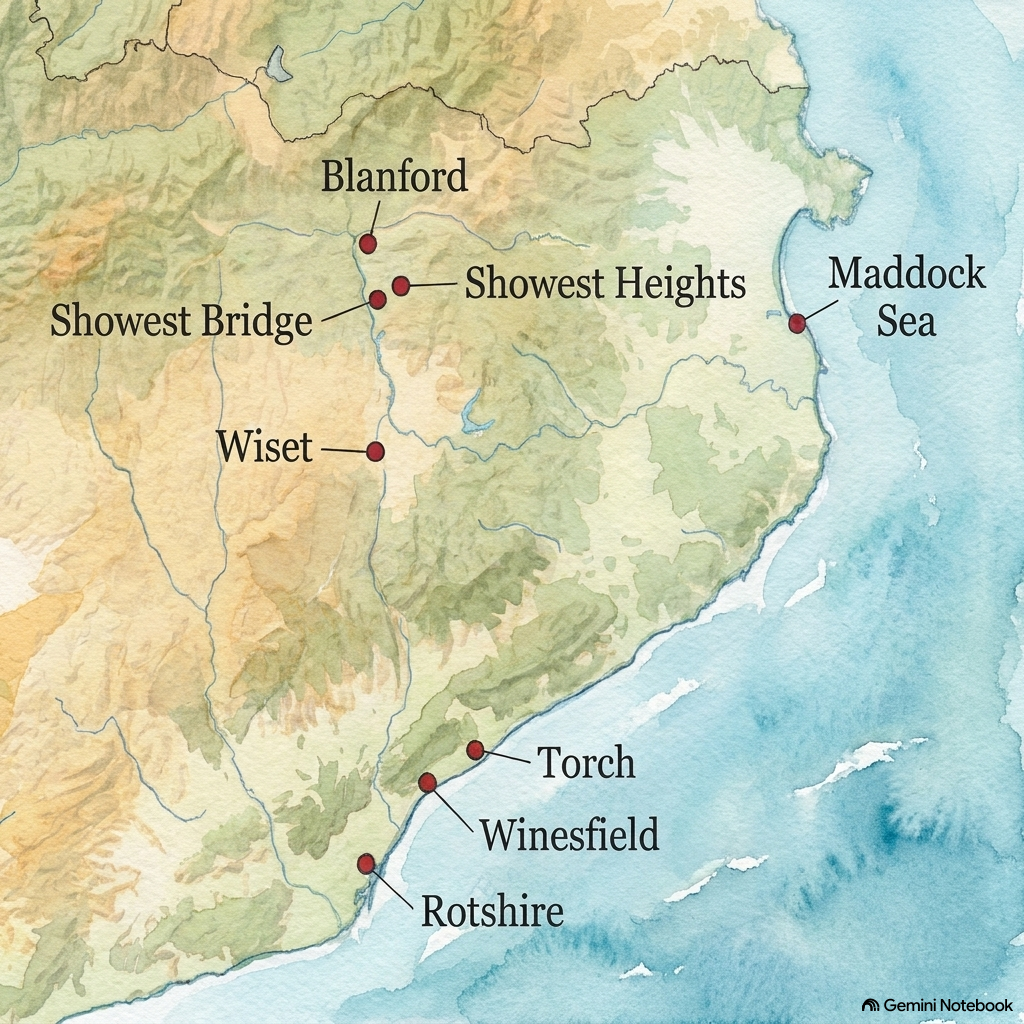
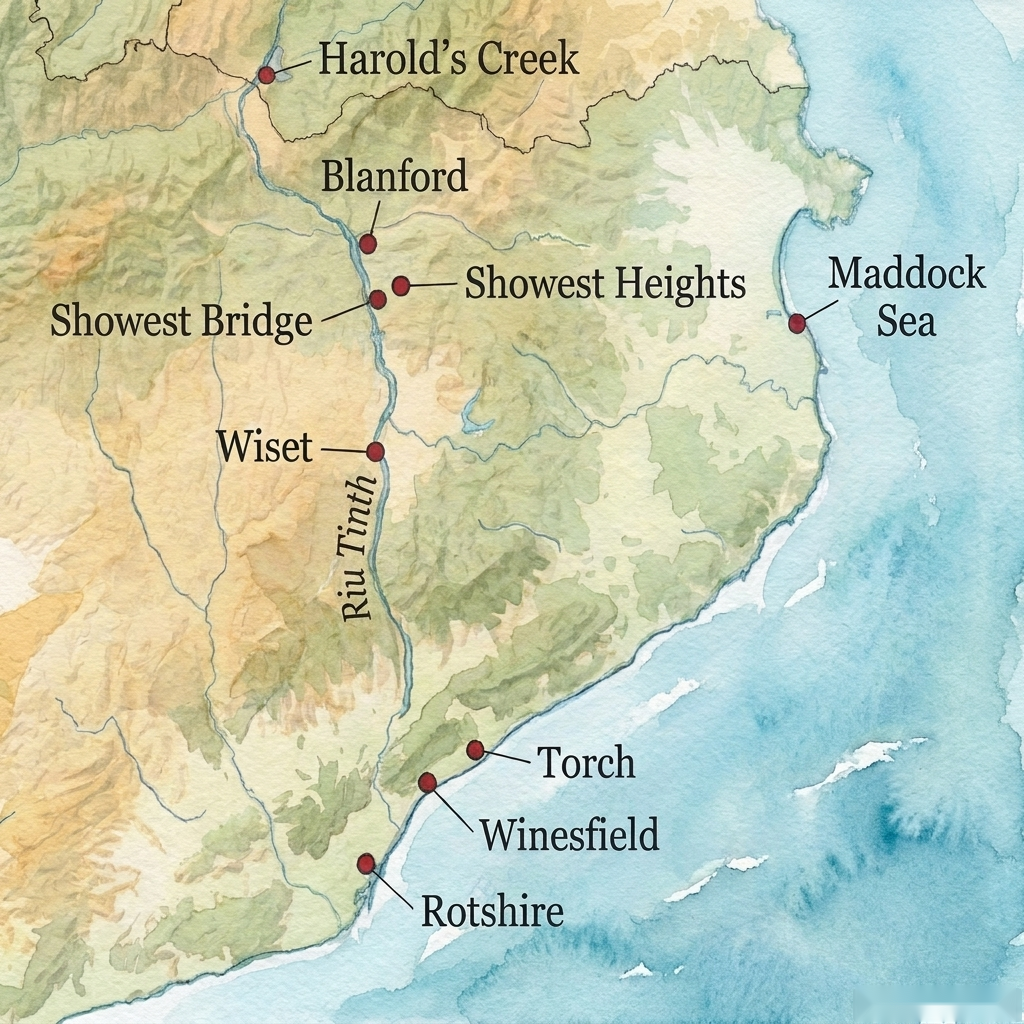
aixomai

diff --git a/src/content/relats/aixo_mai/capitol-1-episodi-4.md b/src/content/relats/aixo_mai/capitol-1-episodi-4.md
@@ -1,0 +1,23 @@
+---
+title: "La llegenda de la forastera"
+llibre: "Això no m'havia passat mai"
+llibreId: "Aixo-mai"
+seccio: "Capítol passat" 
+etiqueta: "Episodi 4"
+ordre: 5
+data: 2016-08-01
+sinopsi: "" 
+---
+<img src="/imatges/aixo_mai_capitol_01_episodi_04.png" alt="La forastera" style="width: 100%;" />
+
+Tot era a punt per marxar. Petons de comiat i una mirada de complicitat que filles i mare van creuar abans que tots dos deixessin la casa per anar a sopar.
+
+Darlene era una dona a la qual la vida no li havia somrigut tant com s’ho hauria merescut. El seu tresor més preuat era la seva família i, per damunt de tot, les seves filles, per les que donaria la seva vida sense dubtar un instant. El seu caràcter podia presentar tota mena de matisos segons cada situació i oscil·lava des de la més tendra afectivitat fins a la ferocitat si allò pel que s’havia de discutir bé s’ho mereixia. En qualsevol dels casos, però, sempre posava pel davant l’honestedat i la veritat, els pilars en els que fonamentava la seva vida i que havia inculcat a les seves filles amb la seva inesgotable tossuderia. Treballadora des de ben jove, no havia deixat mai d’aportar el seu esforç allà on s’hi trobés, a casa dels pares primer, a la feina més tard i al seu matrimoni mentre va durar. Ningú li havia regalat res i, si ho havia fet, ella ho agrairia sempre.
+
+Baixava els graons de la finca procurant no repicar els talons i no alertar els veïns, pendents a tota hora dels moviments no només d’ella sinó de qualsevol altre que passés per l’escala, pel carrer, caminant o en cotxe, xerrant o en silenci. Era tan arrelat aquest costum en els habitants de Showest Bridge que els hi semblava ben normal guaitar per la finestra o escoltar darrera les portes sense cap mena de pudor ni de vergonya. A les botigues, al dia següent, les versions d’un mateix fet es posaven en comú i s’explicaven amb tota mena de detalls als qui no en van poder gaudir en directe. Els temes més sucosos podien durar dies o mesos per anar perfilant una història què, a la fi, res tenia a veure amb el seu origen però que la creativitat desmesurada, la malícia i la poca feina dels seus narradors convertien en un fet insòlit i inversemblant. Es podria pensar que aquesta era una pràctica habitual de les dones, a sovint relacionades amb exclusiva amb aquests afers. A Showest Bridge i a altres pobles dels voltants eren els homes els qui en feien ús i que els discutien als pocs bars a on s’ajuntaven després de la feina i dissabtes i diumenges. Hi havia tanta passió per la xafarderia que més d’una vegada s’havia apagat el televisor i deixat de veure el partit de futbol perquè l’interès en un assumpte del que ningú n’era partícip els sobrepassava i s’encenien discussions tan acalorades que podien arribar a les mans per menys de res. Una de les històries que durant més temps va tenir entretinguda a la major part de la població, a la vora de tres anys i que els pares encara avui expliquen als seus fills, va ser la d’una noia vinguda d’un país de l’est d’Europa a la que se li atribuïen tota mena d’abusos sexuals a homes, dones i fins i tot a animals. Venia a ser una mena de monstre nocturn, que actuava amb la fredor pròpia del país d’on provenia i del qual mai es va saber el nom amb certesa. Tampoc el nom de la dona es va arribar a saber mai, només l’anomenaven “la forastera”. Era d’una promiscuïtat tal que no deixava que ningú la seduís sinó que era ella la que ensarronava les seves víctimes amb tanta sapiència amorosa que res no podien fer per desfer-se’n i queien a les seves lascives urpes com xais desvalguts. Cap d’aquestes suposades víctimes havia pogut donar el seu testimoni als persistents creadors de tan tèrbola història perquè havien quedat sotmesos a un potent encanteri d’amor que els mantindria com ximplets fins a la fi dels seus dies. L’edat de la forastera oscil·lava entre els divuit i els vint-i-cinc, els seus cabells creixien i es tallaven al mateix temps que canviaven de color, i els seus pits i les seves natges havien arribat a tenir unes dimensions tan colossals que no existia  roba prou gran per entaforar-los. Alguns l’havien vist a la nit, de reüll per prevenir l’esguard de tan malèfic ésser, en algun racó fosc que els més previnguts evitaven a qualsevol preu també a la llum del dia.
+
+Aquella noia francesa de vint anys amb cos de dona de trenta, va baixar del tren a la raquítica estació de Showest Bridge forçada per una avaria en algun punt de la via. Era el migdia d’un mes de juliol en que les temperatures es van enfilar fins al llindar dels quaranta-cinc graus. Va entrar al bar a on es convertiria en llegenda i va menjar i beure atentament vigilada. Van trigar set dies en reparar l’avaria, canviant més de vuit-cents cargols defectuosos dels que subjecten les vies, fosos per la insuportable canícula, en els trams on el sol hi queia a plom durant quinze hores al dia. Les seves vacances i els seus diners van diluir-se sota aquell sol implacable passant les hores durant el dia a l’única habitació amb aire condicionat del únic hotel del poble, llegint llibres de literatura francesa. Ben entrada la nit, quan la calor havia deixat de ser sufocant, passejava pels quatre carrers solitaris de Showest Bridge, avorrida i farta d’haver anat a parar a aquell racó de món. La seva roba vaporosa i moderna, ben diferent de la que vestien allà, va desfermar la imaginació dels pocs que la van arribar a veure. Quan per fi va poder marxar, va tornar cap a casa i es va prometre a sí mateixa que no hi tornaria mai més ni hi aniria mai a cap destinació si el tren passava per Showest Bridge. Claire Damien viu ara a Wiset, encara està soltera als seus seixanta-dos anys i no ha tingut cap intenció de desplaçar-se els quinze escassos quilòmetres que la separen d’aquell malson de poble. Durant molts anys havia estat professora de francès en un institut, el mateix a on van aprendre la llengua de Voltaire els fills d’aquells que s’entestaren a convertir-la en el monstre que mai hagués cregut ser i que la consideraren sempre la professora ideal, la que xerrava amb els alumnes, la que feia divertida una assignatura que no els hi interessava gens. Era també la que va ensenyar els verbs a Darlene i amb la qual mantenien avui en dia una amistat tendre i ferma.
+
+Darlene havia nascut a Wiset i no coneixia Showest Bridge quan anava al institut, només d’anomenada. Quan va conèixer en Wallace Colbert, que era fill d’aquell poble de tarats, va començar en entendre l’obsessió de la professora per no apropar-s’hi i ho va sentir en carn pròpia poc temps després de que es casessin i anessin tots dos a viure en un petit apartament al bell mig del poble, centre neuràlgic del espionatge veïnal. La casualitat va voler que la casa a on Claire Damien es va instal·lar a Wiset estès a prop de la casa dels pares de Darlene. Així, pocs dies més tard que comencessin les classes, tres dies a la setmana feien juntes el camí de tornada des de l’institut, xerrant una mica de tot i creant sense voler un vincle que encara avui segueixen cuidant, basat amb el secrets d’adolescència de l’una i l’altre. Cap de les dos, però, havien arribat a sospitar mai la tenebrosa historia fundada en la que fóra forastera durant una setmana a Showest Bridge i de la que se’n haguessin rigut sense parar cada vegada que es trobaven.
+
+Gens interessada amb les xafarderies, Darlene no en feia cabal quan les escoltava, més preocupada per les seves filles, els seus gossos i les seves dificultats per tirar endavant la vida de tots plegats, però procurava mantenir la discreció necessària per no donar-ne peu. Ja en va tenir prou amb l’enrenou que va provocar la separació d’en Wallace què, com bon fill del poble, quedava a ulls de tothom al marge de qualsevol culpabilitat, soterrant les raons per les quals Darlene l’odiava tant i que mai va deixar entreveure a ningú, sabedora com era de que als seus veïns poc els hi importaven i que ja construirien d’altres raons deixant anar la seva ment pertorbada. Quan sortia al carrer solia dur ulleres de sol fosques, caminava de pressa allà on havia d’anar i prestava ben poca atenció als que passaven al seu voltant, tant que alguna bona amiga s’havia molestat perquè no la va contestar al saludar-la. Al contrari del que podia semblar, Darlene era ben estimada per molta de la gent de Showest Bridge.

diff --git a/src/content/relats/aixo_mai/capitol-1-episodi-1.md b/src/content/relats/aixo_mai/capitol-1-episodi-1.md
@@ -10,8 +10,10 @@ sinopsi: ""
 ---
 <img src="/imatges/aixo_mai_capitol_01_episodi_01.png" alt="Endinsats a la boira" style="width: 100%;" />
 
-Feia poc més de mitja hora que conduïa sense cap pressa, sabedor com era que no li calia córrer per arribar amb temps suficient, fins i tot potser massa d’hora. Va mirar de reüll els dígits ataronjats al centre mateix dels comandaments del vehicle que es distingien clarament entre la foscor de la nit. Com que el trànsit era escàs, en veure que encara no eren ni dos quarts de deu, va afluixar una mica la pressió sobre l’accelerador i decidir respectar els límits de velocitat; així arribaria sense gaire antelació i no s’hauria d’esperar pràcticament gens. També li serviria per imaginar què es trobaria, de què parlarien, què faria. Malgrat que Merrick Barnet era una persona ordenada a la qui li agradava tenir les coses preparades abans d’enfrontar-s’hi, segons les ocasions deixava espai a la improvisació per prendre decisions en l’últim moment, bé per l’agradable sensació d’una aventura desconeguda, bé per que els altres decidissin en lloc seu.
+Feia poc més de mitja hora que conduïa sense cap pressa, sabedor com era que no li calia córrer per arribar amb temps suficient, fins i tot potser massa d’hora. Va mirar de reüll els dígits ataronjats al centre mateix dels comandaments del vehicle que es distingien clarament entre la foscor de la nit. Com que el trànsit era escàs, en veure que encara no eren ni dos quarts de deu, va afluixar una mica la pressió sobre l’accelerador i decidir respectar els límits de velocitat; així arribaria sense gaire antelació i no s’hauria d’esperar pràcticament gens. També li serviria per imaginar què es trobaria, de què parlarien, què faria. Malgrat que Merrick Barnet era una persona ordenada a la qui li agradava tenir les coses preparades abans d’enfrontar-s’hi, segons zles ocasions deixava espai a la improvisació per prendre decisions en l’últim moment, bé per l’agradable sensació d’una aventura desconeguda, bé per que els altres decidissin en lloc seu.
+
 Tot i que no era massa presumit, aquell vespre s’hi havia esmerçat en estar polit i lleugerament perfumat. Com que no era amic de les colònies, en tenia prou amb la fresca olor del seu massatge per després d’afaitar, del que se’n va posar una dosi superior a l’habitual. Unit a la dutxa just abans de sortir i a la fragància de la roba neta, es sentia en perfectes condicions per a ser examinat de la manera que només les dones saben fer-ho. Era cap a finals de gener en un any que no es presentava especialment fred, però la contrada on s’hi dirigia mantenia durant bastants mesos a l’any unes temperatures més aviat baixes i gairebé durant quatre o cinc mesos eren estrictament gèlides. Showest Bridge quedava enclotat en una fonda depressió orogràfica travessada pel Tinth, un riu ara poc cabalós que en temps passats va donar feina i menjar a bona part de les terres per les que discorre. De fet, el Tinth feia moure les seves aigües des dels llunyans cims de Harold’s Creek fins a la seva desembocadura als fangars de Rotshire, en un curs d’uns dos-cents quilòmetres. Al seu pas per Showest Bridge, el Tinth era calmat i es recargolava de tal manera que semblava que havia esculpit el caràcter d’aquella gent, tranquils de mena i malpensats i desconfiats com n’hi ha poca. Merrick els coneixia prou bé. A tocar del riu, el fred s’escolava ràpidament dins el cos i aixecava una intensa boira que s’enfilava fins al cap de munt del campanar de l’església, cobrint les cases i la gent amb aquell gest tosc i sorrut que no els abandonava ni els pocs dies en que el sol escalfava fort al migdia.
+
 No havia triat lloc per anar a sopar però recordava que en un trencall de la carretera, a pocs quilòmetres de Showest Bridge, hi havia vist nombroses vegades el rètol d’un restaurant que, per estar on estava, devia ser un d’aquells llocs de pagès a on es podria menjar bé a un preu raonable. El desviament fins a Lou’s Corner anava perdent l’asfalt fins a convertir-se en un camí de terra humida i compacta, sense sots, tancat a banda i banda per una filera d’arbres vells i tupits malgrat l’hivern. Una vegada més es va preguntar quins arbres eren aquells sense esperar conèixer la resposta. Sempre li hauria agradat saber-ne més dels noms dels arbres però mai havia prestat el suficient interès; amb prou feines distingia les oliveres perquè n’havia plantat una de petita quatre o cinc anys enrere a la que l’hi havia vist créixer unes quantes fulles i l’hi agradava mirar-se-la quan es llevava al matí i esporgar-la quan algú amb dots de jardiner li recomanava que calia fer-ho. Va ser un regal inesperat del seu cunyat d’aleshores, en Wallace Peyton, quan va haver de fer canvis al seu jardí i l’olivera va perdre el seu lloc. La plantà per veure-la créixer alhora que ho feia l’Alain, el seu fill de tres anys. Durant els dos anys següents, l’olivera havia eixamplat les branques i l’Alain s’havia estirat fins a ser tan alt com ella. Feia més d’un any que no la veia i es preguntava qui dels dos hauria crescut més, si era que l’arbre encara es mantenia dempeus.
 
 L’espai per aparcar era tan ampli que va dubtar a on deixar el cotxe. Li solia passar als pàrquings amb moltes places lliures, no sabia quina triar. Finalment, el va aturar al costat d’una furgoneta atrotinada que de ben segur pertanyia a algú del restaurant. El gos que jeia a la porta de Lou’s Corner no es va molestar ni en aixecar el cap quan Merrick passava pel seu davant, tot just va dreçar les orelles sense desviar la mirada. La casa era antiga i de ben segur servia menjars des de feia una bona colla d’anys. Les sensacions que va tenir al entrar no l’animaven a seguir però com que tenia molts ulls fixant-se en ell, va avançar fins arribar al taulell: un nen petit que pintava gargots en un diari, una noia que se li asseia al costat, una senyora baixeta amb el davantal esquitxat de cuinar i un senyor gran, segurament l’amo del local, s’havien aturat en sec en veure’l entrar i el miraven tan bocabadats com ell ho feia. Per uns segons el temps va deixar de córrer i tanmateix semblava que no s’esperaven que ningú entrés per la porta aquella nit, sorpresos com estaven. El silenci d’aquells instants es barrejava amb la poca llum del local, la fusta fosca i rància de taules i porticons i amb l’inconfusible olor dels llocs a on es serveixen menjars i es fuma alhora, per molt que els ventilin. Tot i les ganes de marxar, la prudència natural d’en Merrick el va fer apropar-se fins l’amo i demanar-li si hi havia taules disponibles per sopar. Mentre ho deia, s’adonava de quan absurda era la pregunta, clar com era que aquella nit farien ben poc calaix, però va esperar la resposta com si res. L’home no va mirar cap llibre de reserves i sense gaire entusiasme li confirmar el que ja sabia.

diff --git a/src/content/relats/aixo_mai/capitol-1-episodi-3.md b/src/content/relats/aixo_mai/capitol-1-episodi-3.md
@@ -1,0 +1,21 @@
+---
+title: "Quatre gossos i un retrobament"
+llibre: "Això no m'havia passat mai"
+llibreId: "Aixo-mai"
+seccio: "Capítol passat" 
+etiqueta: "Episodi 3"
+ordre: 4
+data: 2016-08-01
+sinopsi: "" 
+---
+<img src="/imatges/aixo_mai_capitol_01_episodi_03.png" alt="Quatre gossos" style="width: 100%;" />
+
+Encara tenia el dit al timbre quan va sentir dins de la casa els lladrucs nerviosos d’un gos que amagaven corredisses i veus. Va ser un instant breu perquè de seguida es va obrir la porta mostrant l’esvelta figura de Darlene. El va fer entrar i es van fer dos petons mentre els lladrucs persistien, malgrat que no hi havia cap gos a la vista. Al menjador hi esperaven les seves filles, Alècia i Essie, dretes al costat d’una taula de centre i que van saludar en Merrick també amb dos petons cada una. Llavors va veure d’on venien els lladrucs: al darrera de la porta que duia al pati, un gos negre i pelut saltava xocant els dents contra el vidre i bordava agudament per molt que les tres dones intentessin fer-lo callar. També va entendre d’on venia aquella olor que va notar quan la porta es va obrir i la barreja de tabac, de gos i d’humitat es va escolar pel seu nas. No estava segur si hauria reconegut a les filles si se les hagués trobat pel carrer. Feia tres anys que no les veia i l’Essie en tenia deu a les hores, una nena. Alècia tenia quatre anys més que la seva germana i s’havia convertit en una adolescent prima i delicada, amb la seva roba cenyida, el maquillatge discret i un posat elegant.
+
+Darlene anava i venia esperitada passadís amunt i avall, entrava al bany i sortia al cap de pocs segons; hi tornava a entrar i sortia per demanar alguna cosa a alguna de les filles mentre intentava fer callar als gossos, que ho feien durant un breu  instant i seguien al cap de pocs segons amb la cridòria que provocava la presència d’un estrany a la casa. Va ser llavors, quan Darlene va anomenar els gossos pel seu nom, que Merrick s’adonà que no hi havia només un sinó que n’eren quatre els que s’amuntegaven darrera la porta de vidre. Per calmar-los, Alècia va decidir fer-los entrar després de demanar-li a Merrick si no l’importava. La manada va passar a l’interior de la casa amuntegant-se i trepitjant-se entre ells fins arribar a prop del foraster per ensumar-lo i reconèixer que no hi havia perill per a les mestresses. Eren tots de pèl llarg, de morro extremadament afilat, envoltaven en Merrick i fins i tot, un de més menut, li saltava a les cames buscant una carícia. Tot i no tenir por, la presència de quatre gossos l’imposava una mica i a les nenes els hi feia molta gràcia. L’Essie i l’Alècia els hi donaven ordres a les que els animals responien amb més o menys celeritat, atabalats com estaven per una situació que no es produïa en aquella casa des de feia molts dies.
+
+Acabat el seu periple de viatges pel passadís, finalment va aparèixer Darlene acalorada per les corredisses, la calefacció i els nervis que li provocava aquella mena de cita, una trobada entre dos antics coneguts que les casualitats havien portat a coincidir aquell vespre de gener. Com sempre havia estat i ho hauria de ser fins al darrer dia de la seva vida, estava perfectament maquillada, el cabell recollit amb una pinça, calçada amb uns talons de no gaire alçada i lluint el seu cos prim dins d’un vestit llarg i cenyit que descrivia amb escreix l’anatomia que hauria de tenir embadalit en Merrick durant tants anys com va viure. La poca estatura la compensava simplement amb la seva presència, amb el saber estar com calia a cada lloc, i eren pocs els que s’adonaven d’aquest fet fins que la veien descalça, cosa la qual era pràcticament impensable per a Darlene.
+
+Ell recordava aquest cos. Tres o quatre anys enrere, quan Darlene i el seu cunyat Wallace Peyton mantenien una relació amb certs signes d’estabilitat, Merrick s’havia fixat en ella. No tenia un d’aquells cossos esculturals de les models de revista ni tenia volums voluptuosos, però composava una figura esvelta i sensual com a ell li agradaven les dones, amb les corbes suficients i cap mida exagerada, construint un conjunt harmoniós que li evocava ambients vaporosos, passejades a peu de platja qualsevol capvespre d’estiu, migdiades caloroses en una gran habitació de finestrals coberts amb cortines de lli blanc deixant relliscar la càlida llum d’una tarda d’agost per damunt de dos cossos nus en un llit de llençols blancs, alt i ample. Cada cop que se li escampaven pel cap aquests pensaments, a Merrick li venia a la ment una de les coses que sempre hauria volgut fer i que mai va aconseguir: saber dibuixar el cos femení. Li hagués agradat traduir amb pinzells totes les sensacions que li produïen la bellesa d’una dona, la tendresa d’una carícia, la calidesa d’un petó, l’arrodoniment d’un pit i d’unes natges, la silueta perfilant-se entre ombres, el cabell sobre l’esquena... Llapis, carbó, aquarel·les, pintura a l’oli, res no va servir per complir el seu desig. 
+
+Els gossos semblaven calmats excepte un de negre, el que Merrick va veure quan creia que només n’hi havia un. Es tractava d’una femella d’ulls vius i veu potent que marcava el territori a la resta d’animals. No era la més antiga a la casa, però el seu caràcter dominant i persistent mantenia els altres a ratlla, tan a un de molt vell que caminava amb la lentitud que donen els anys i uns malucs malmesos com als altres dos, més joves i juganers. L’Iskra havia estat recollida feia un parell d’anys de la propera gossera de Wiset, la capital del comtat, plena fins al capdamunt de paràsits, prima, afamada i desvalguda que feia pena mirar-se-la. En aquells dies, Alècia estava travessant una mala temporada, amb l’ànim per terra, fruit de la separació dels pares i dels lamentables esdeveniments que succeïren arrel d’aquell fet. Darlene va creure encertadament que a l’Alècia, amant com ningú dels gossos, l’estímul d’un nou animal a la casa per qui preocupar-se’n li allunyaria cabòries i la farien retornar el seu esperit dinàmic i divertit que havia tingut fins llavors. Si bé la fórmula va funcionar durant els primers mesos, Alècia seguia entaforada en una mena de pou que li costaven la paciència i la salut a Darlene. Amb les atencions de totes tres, l’Iskra es va refer i en poc temps va fer seus tots els racons de la casa, però mai va deixar de respectar a qui tanta cura van tenir d’ella. Poc es podia imaginar en Merrick, enmig d’aquell desgavell de gossos, que l’Iskra l’acompanyaria fins al seu darrer alè, sentint per ell una devoció inimaginable.

diff --git a/src/content/relats/aixo_mai/capitol-1-episodi-2.md b/src/content/relats/aixo_mai/capitol-1-episodi-2.md
@@ -1,0 +1,20 @@
+---
+title: "Les ferides del passat"
+llibre: "Això no m'havia passat mai"
+llibreId: "Aixo-mai"
+seccio: "Capítol passat" 
+etiqueta: "Episodi 2"
+ordre: 3
+data: 2016-08-01
+sinopsi: "" 
+---
+<img src="/imatges/aixo_mai_capitol_01_episodi_02.png" alt="Les ferides del passat" style="width: 100%;" />
+
+Un més enrere, quan va penjar el telèfon, no s’hauria pogut imaginar ni un per un instant el que va suposar prémer el timbre d’aquella porta, ni el tomb que donaria la seva vida al cap de pocs mesos. Aquella trucada l’hauria de recordar sempre, també quan l’edat avançada li esborrava de la ment algunes de les històries que durant molts anys havia anat explicant repetidament als seus fills, als seus néts i als amics dels seus fills i dels seus néts. La paciència que sempre havia caracteritzat a Merrick Barnet semblava que havia traspuat als seus oïdors, que les escoltaven una i altra vegada malgrat saber-se-les de memòria, i que l’ajudaven si alguna part de l’anècdota costava de completar. En aquells dies, la imatge d’una tarda de divendres d’un mes de desembre, amb el seu fill Alain jugant a la placeta amb els seus amics de l’escola mentre ell responia la inesperada trucada de Darlene, es mantenia inalterable a la seva ment castigada pels anys. De fet, va ser el principi d’un conte amb final feliç del que ells dos eren els protagonistes.
+
+Feia pocs mesos que s’havia separat de la seva segona dona, enamorada d’un mariner de la costa de Feinbrosh que l’ensenyava a navegar. La Janis Peyton es va passar gairebé un any fent creure a Merrick que estava enfonsada en una depressió de la qual intentava sortir-se’n visitant una psicòloga argentina i amagant-li la veritat de la seva relació encoberta. Quan Janis es va decidir a dir-li que es volia separar, Merrick ja havia intentat de tot per fer minvar la seva suposada depressió sense saber-ne la causa real. Només va ser al cap d’uns dies, quan els papers del jutjat ja estaven signats, que ella li confessà l’afer amb el mariner. De resultes d’aquell embolic en va quedar l’Alain repartint estades setmanals amb cada un dels pares, una Janis suposadament feliç amb un canvi que la va obligar a renunciar a la seva caseta amb jardí lluny de la gran ciutat per viure en un pis de lloguer al seu bell mig, comprant mobles i electrodomèstics de segona mà. I en va quedar en Merrick, prop de la cinquantena, alliberat com no s’ho podia ni imaginar d’un llast que l’havia lligat els darrers anys a l'invisible corretja que la seva dona tensava curta i ferma. El dia que se’n va anar, li va semblar que per la porta entrava una glopada d’aire enduent-se la seva angoixa finestres enllà.
+
+Abans que tornés de visita a Showest Bridge, Merrick Barnet havia viscut retrobant-se amb ell mateix, amb les coses de les que era tan amant, les seves petites coses: una inútil col·lecció de bolígrafs permanentment per endreçar, un recull d’eines de tota mena que s’entestava a penjar com si fos un taller de veres a totes les cases on hi vivia, el cavallet, els tubs dels colors i l’aiguarràs per pintar al oli nefasts quadres que mai penjaria a cap paret. També hi dedicava més temps a l’ordinador, apassionat a la que per ell era una eina d’entreteniment i de treball. Passar moltes hores sol li permetia no tenir cap angoixa per estar-s’hi davant la pantalla llargues hores teclejant els incomprensibles llenguatges dels programadors. Una altra cosa que li reportà la separació va ser una moto. Des de ben petit, tot just adolescent, les motos li havien causat una atracció especial, se les mirava per allà on anés i es coneixia marques, models i pilots. De més gran feia fotos a les més espectaculars que veia pel carrer, assistia a les fires especialitzades, anava a les poques curses locals i es plantava davant del televisor els diumenges al matí per seguir el mundial de motociclisme. El seu pare tenia un petit negoci familiar en el que fabricava artesanalment peces mecàniques de tota mena però principalment per a col·leccionistes i fanàtics de motocicletes antigues que havien de ser restaurades com si fossin noves. A Merrick li encantava acompanyar al pare a lliurar les comandes a les botigues de motos i ensumar l’olor dels pneumàtics, mirar-se de fit a fit aquelles màquines meravelloses amb el dipòsit vermell i lluent. Tenia debilitat per les motos de muntanya i coneixia el nom de pilots, les dates dels campionats i estava al cas dels avenços que cada marca feia a les seves màquines. Sabia bé que no en tindria cap, a casa els diners estaven per altres coses més importants, però l’afició no l’hi minvava. No va ser fins que en va tenir dinou que es va comprar una Lambretta de segona mà, atrotinada i amb el pedal d'arrencada que funcionava un dia si i l’altre no. Res més allunyat d’una moto de muntanya, però era una moto al capdavall. La va pintar d’un blau elèctric que es veia d’una hora lluny i la va netejar fins que va semblar nova de trinca. El seu pare li va comprar un casc italià, també blau, i ja en va tenir prou per fer espetegar aquell motoret per tota la ciutat, sense córrer, gaudint de cada passeig, de cada corba, de – com havia llegit a la coberta d’un llibre – “El plaer de l'equilibri dinàmic”. No havia entès del tot aquella frase fins que va tenir la seva moto. Els deficients frens d’aquella carraca vinguda a més li van jugar una mala passada a en Merrick una tarda tornant cap a casa, quan va ensopegar amb un cotxe que frenà sobtadament. El que més greu li va saber no va ser el lleu cop que se’n va dur al cos sinó les rascades i bonys del carenat de la moto. Malgrat l’afició i els pocs mals, va agafar por i va perdre les ganes de tornar a arreglar la Lambretta i al cap de poc temps se la va vendre per pocs diners al primer que s’hi va interessar. 
+
+Hauria de deixar passar vint anys més per comprar-se una altra moto empès per la insistència de la Janis, i va arribar a tenir-ne vuit alhora, massa poc temps per conduir-les i massa dur de suportar l’enuig de la Janis cada vegada que ho feia. Un cop es van separar, va canviar totes les motos per una altre de segona mà, de gran cilindrada, grossa, pesada i vermella amb la que es passejava dissabtes i diumenges i que feia servir per anar a treballar quan l’Alain no estava a casa.
+

diff --git a/src/content/blog/diari-de-desembre.md b/src/content/blog/diari-de-desembre.md
@@ -29,7 +29,7 @@ Cap pare vol que els seus fills l'hagin de cuidar quan no es puguin valdre. Són
 
 **_DIA 30_**
 
-Avui, 30 de Desembre de 2012, la Carme ens ha deixat després de 85 anys d'estar entre nosaltres, malgrat que la majoria no hem pogut gaudir de la seva presència durant tants llargs anys. Ha marxat silenciosament, discretament, sense fer soroll com ella sempre havia viscut.
+Avui, 30 de desembre de 2012, la Carme ens ha deixat després de 85 anys d'estar entre nosaltres, malgrat que la majoria no hem pogut gaudir de la seva presència durant tants llargs anys. Ha marxat silenciosament, discretament, sense fer soroll com ella sempre havia viscut.
 
 La seva generació, aquesta que ha sobreviscut a una guerra i ha hagut de malviure en una postguerra, ens ensenya que el sacrifici i la pròpia superació ens portaran sempre endavant. Nascuda en una família humil, des de massa jove havia treballat per portar el pa a taula. Un cop casada amb el seu estimat Joan, la feina no li va minvar sinó que, ben al contrari, tots dos van haver de treballar molt per aixecar el petit negoci familiar que tantes mans van cobrir amb els guants que cosia a tota hora mentre se n'ocupava també dels fills. Si s'escolta amb atenció, gairebé es pot sentir a hores d'ara per la casa el repicar de la maquina de cosir, tibant del fils per embastar la pell.
 
